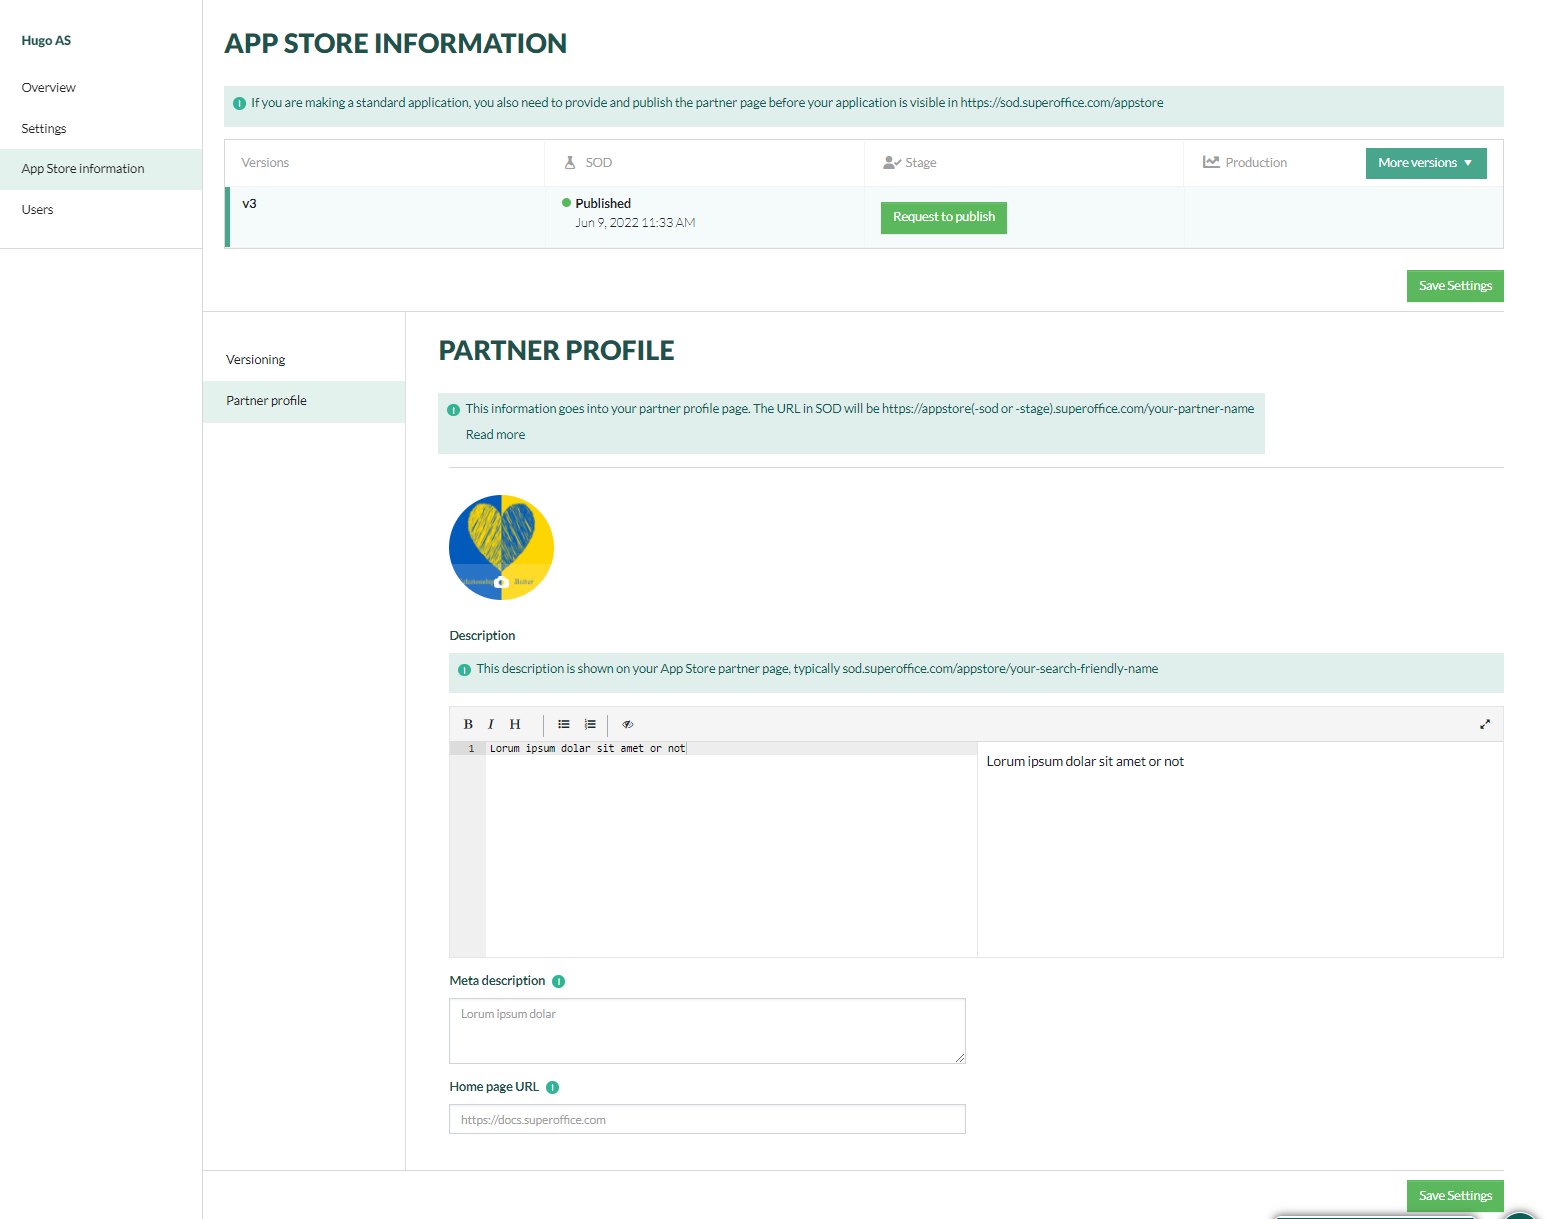
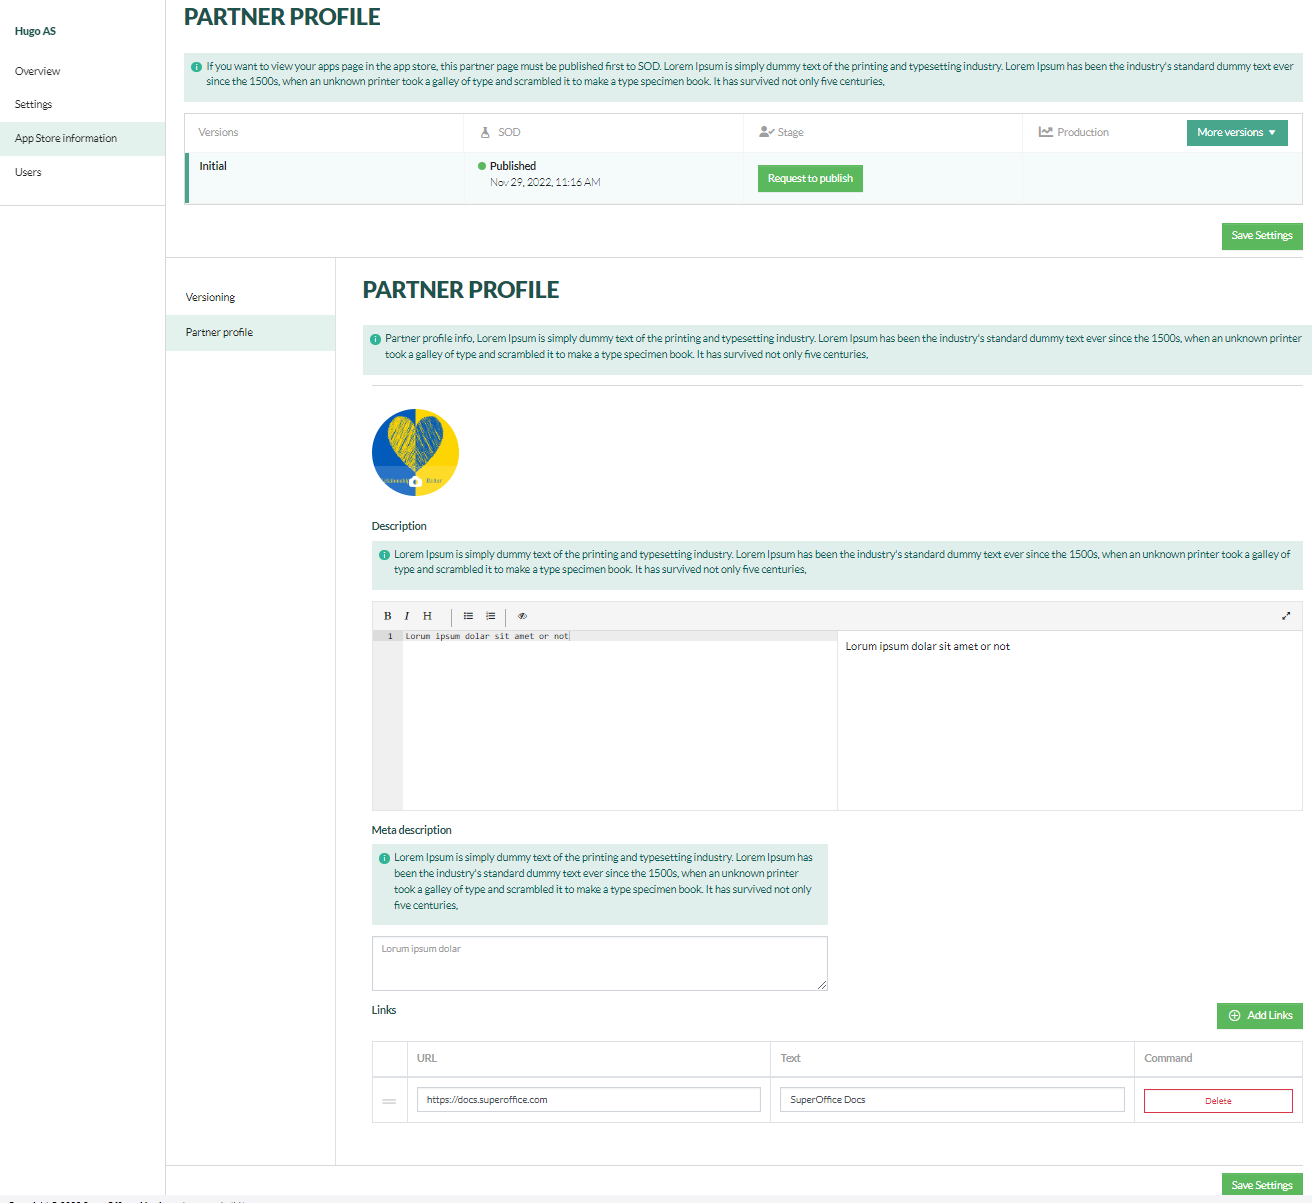
#519 multiple links on partner profile

diff --git a/docs/developer-portal/app-store/update-company-profile.md b/docs/developer-portal/app-store/update-company-profile.md
@@ -3,12 +3,11 @@ title: Update partner profile
 uid: dp-update-partner-profile
 description: How to update your partner profile in the SuperOffice Developer Portal.
 author: Bergfrid Dias
-so.date: 08.26.2022
+so.date: 11.29.2022
 keywords: Developer Portal, profile
 so.topic: howto
-so.version:
+so.dp-version: 1.9
 so.envir: cloud
-so.client: online
 ---
 
 # Update partner profile
@@ -25,7 +24,7 @@ The information shown on your partner profile page in the App Store comes from:
 1. In the Developer Portal, go to your partner page.
 2. Select **App Store information** from the left menu.
 3. [Create a new version.][1]
-4. Select **Partner profile** and then update logo, description, meta description, and home page URL.
+4. Select **Partner profile** and then update logo, description, meta description, and links such as home page URL. Click **Add Links** to enter additional URLs.
 
     > [!TIP]
     > [!include[Link to partner settings](../includes/see-partner-settings.md)]
@@ -66,5 +65,6 @@ When you are happy with how it looks, return to your partner page in the Develop
 [2]: ../howto/request-to-publish.md
 
 <!-- Referenced images -->
+<!--519-->
 [img1]: media/partner-profile.png
 [img2]: ../media/request-to-publish.png

diff --git a/docs/developer-portal/reference/partner-settings.md b/docs/developer-portal/reference/partner-settings.md
@@ -3,12 +3,11 @@ title: Partner settings
 uid: dp-partner-settings
 description: Reference of partner settings in the SuperOffice Developer Portal.
 author: Bergfrid Dias
-so.date: 04.25.2022
+so.date: 11.29.2022
 keywords: apps, Developer Portal, partner
 so.topic: reference
-so.version:
+so.dp-version: 1.9
 so.envir: cloud
-so.client:
 ---
 
 # Partner settings
@@ -26,7 +25,7 @@ These settings may only be changed by SuperOffice app managers. Contact us via c
 | Logo | Company logo, circular | [Update settings][9] | [Marketing requirements][5] |
 | Description | The company blurb. | [Update partner profile][6]| [Marketing requirements][5] |
 | Meta description | Description for search engines. | [Update settings][9] | [Improve SEO][10] |
-| Home page URL | The website of the company. | [Update settings][9] | |
+| Links | One or more URLs with associated ALT text. For example, the website of the company. | [Update settings][9] | |
 
 ## See also
 
